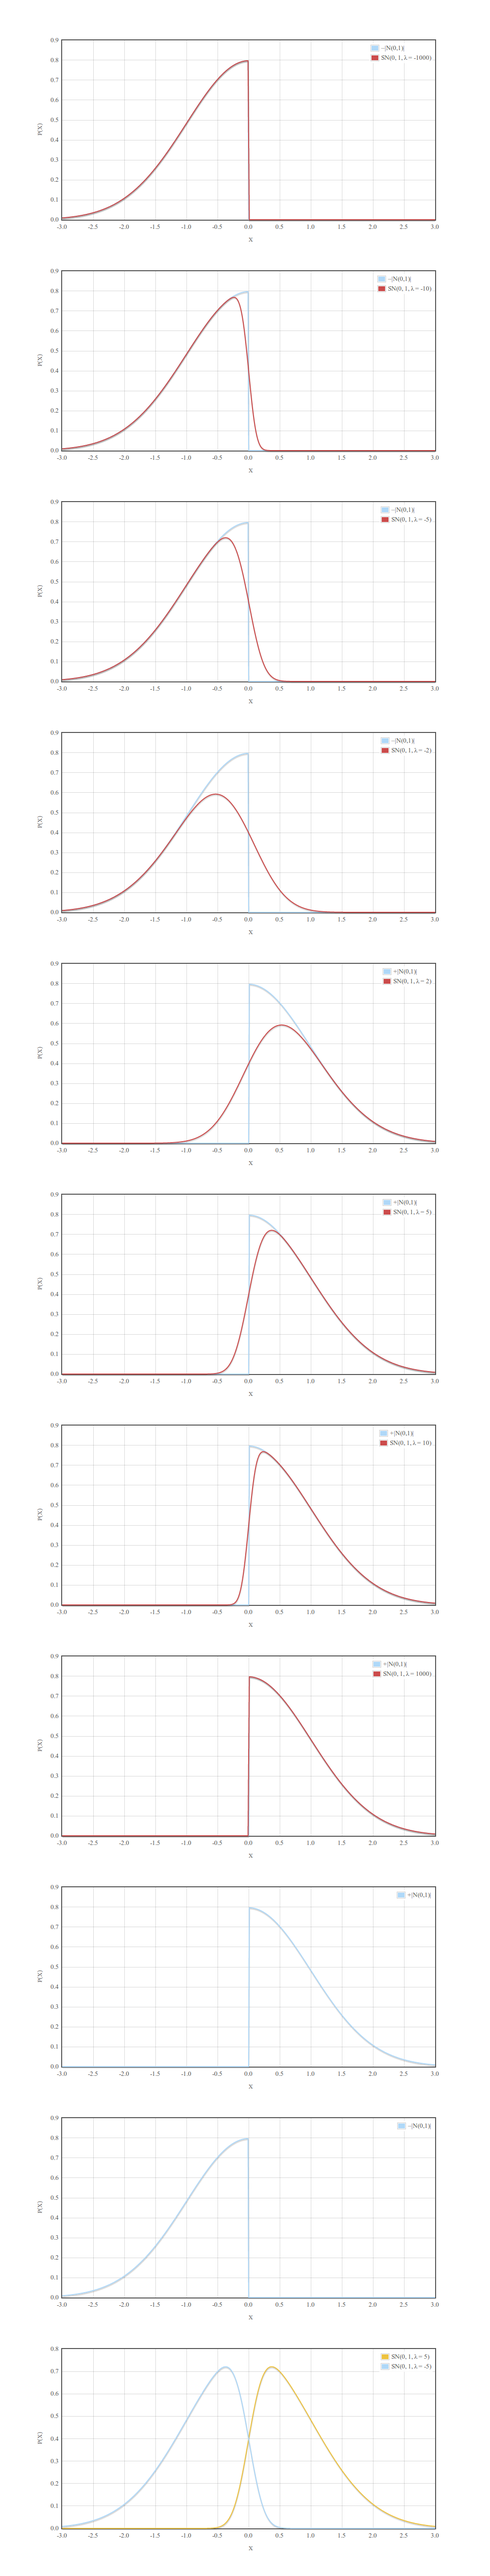
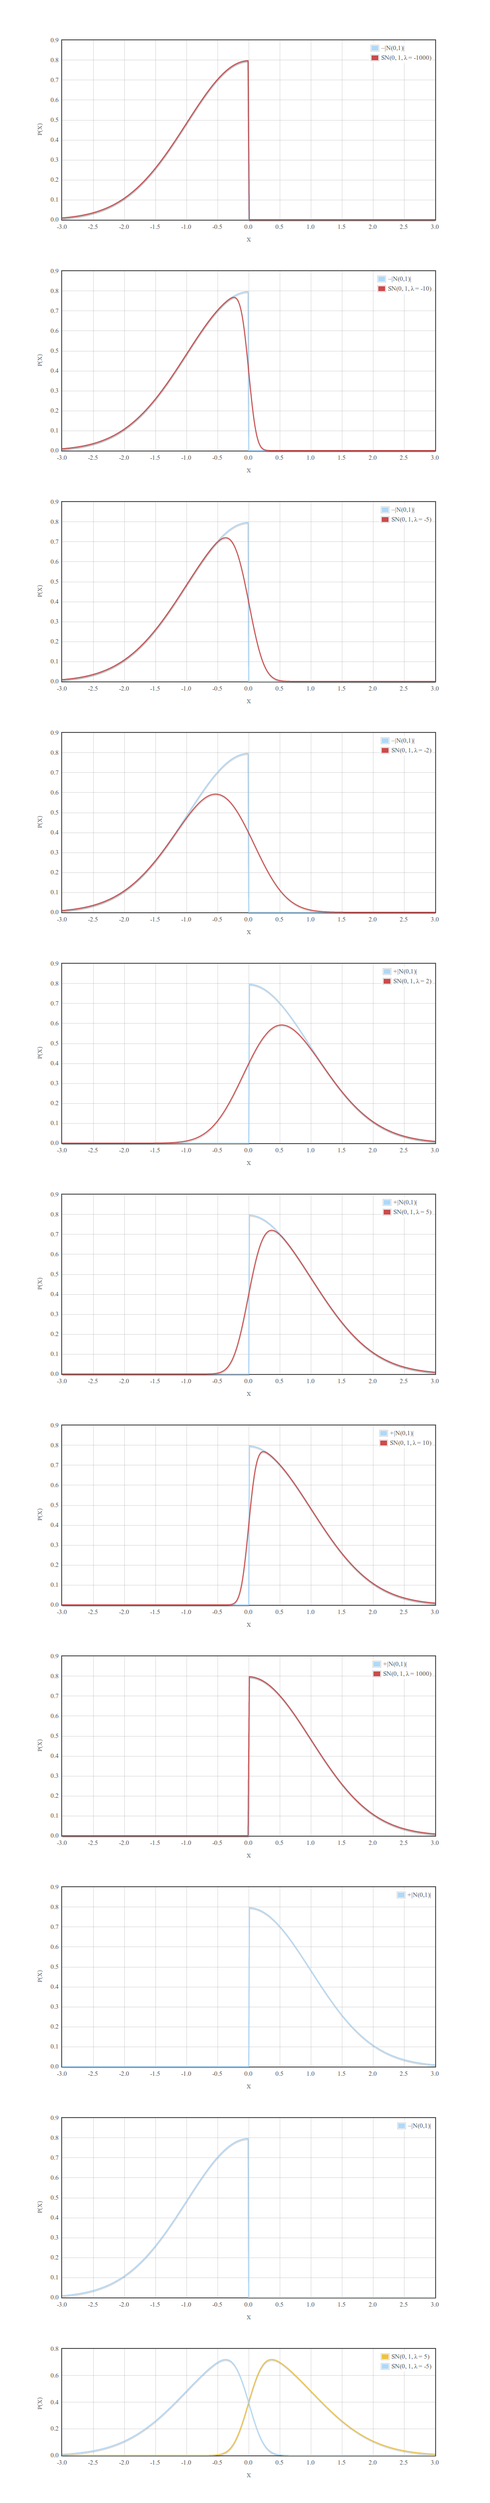
Changed size of std-sn reflection graph

diff --git a/project/calc/flot-pres/properties.html b/project/calc/flot-pres/properties.html
@@ -24,7 +24,7 @@
       }
       .xlabel {
         top: 410px;
-        left: 504px;
+        left: 500px;
       }
       .ylabel {
         top: 183px;
@@ -131,7 +131,7 @@
         };
         $('body').append(html[
           div.box(
-          div.plot /attr('id', 'negative-half-normal') /css({width:800, height:400}),
+            div.plot /attr('id', 'negative-half-normal') /css({width:800, height:400}),
             div.xlabel('X'),
             div.ylabel('P(X)')
           )
@@ -161,9 +161,9 @@
         };
         $('body').append(html[
           div.box(
-          div.plot /attr('id', 'property3') /css({width:800, height:400}),
-            div.xlabel('X'),
-            div.ylabel('P(X)')
+            div.plot /attr('id', 'property3') /css({width:800, height:250}),
+            div.xlabel('X') /css({top:'260px'}),
+            div.ylabel('P(X)') /css({top:'112px'})
           )
         ]);
         $.plot($('#property3'), series, options);
